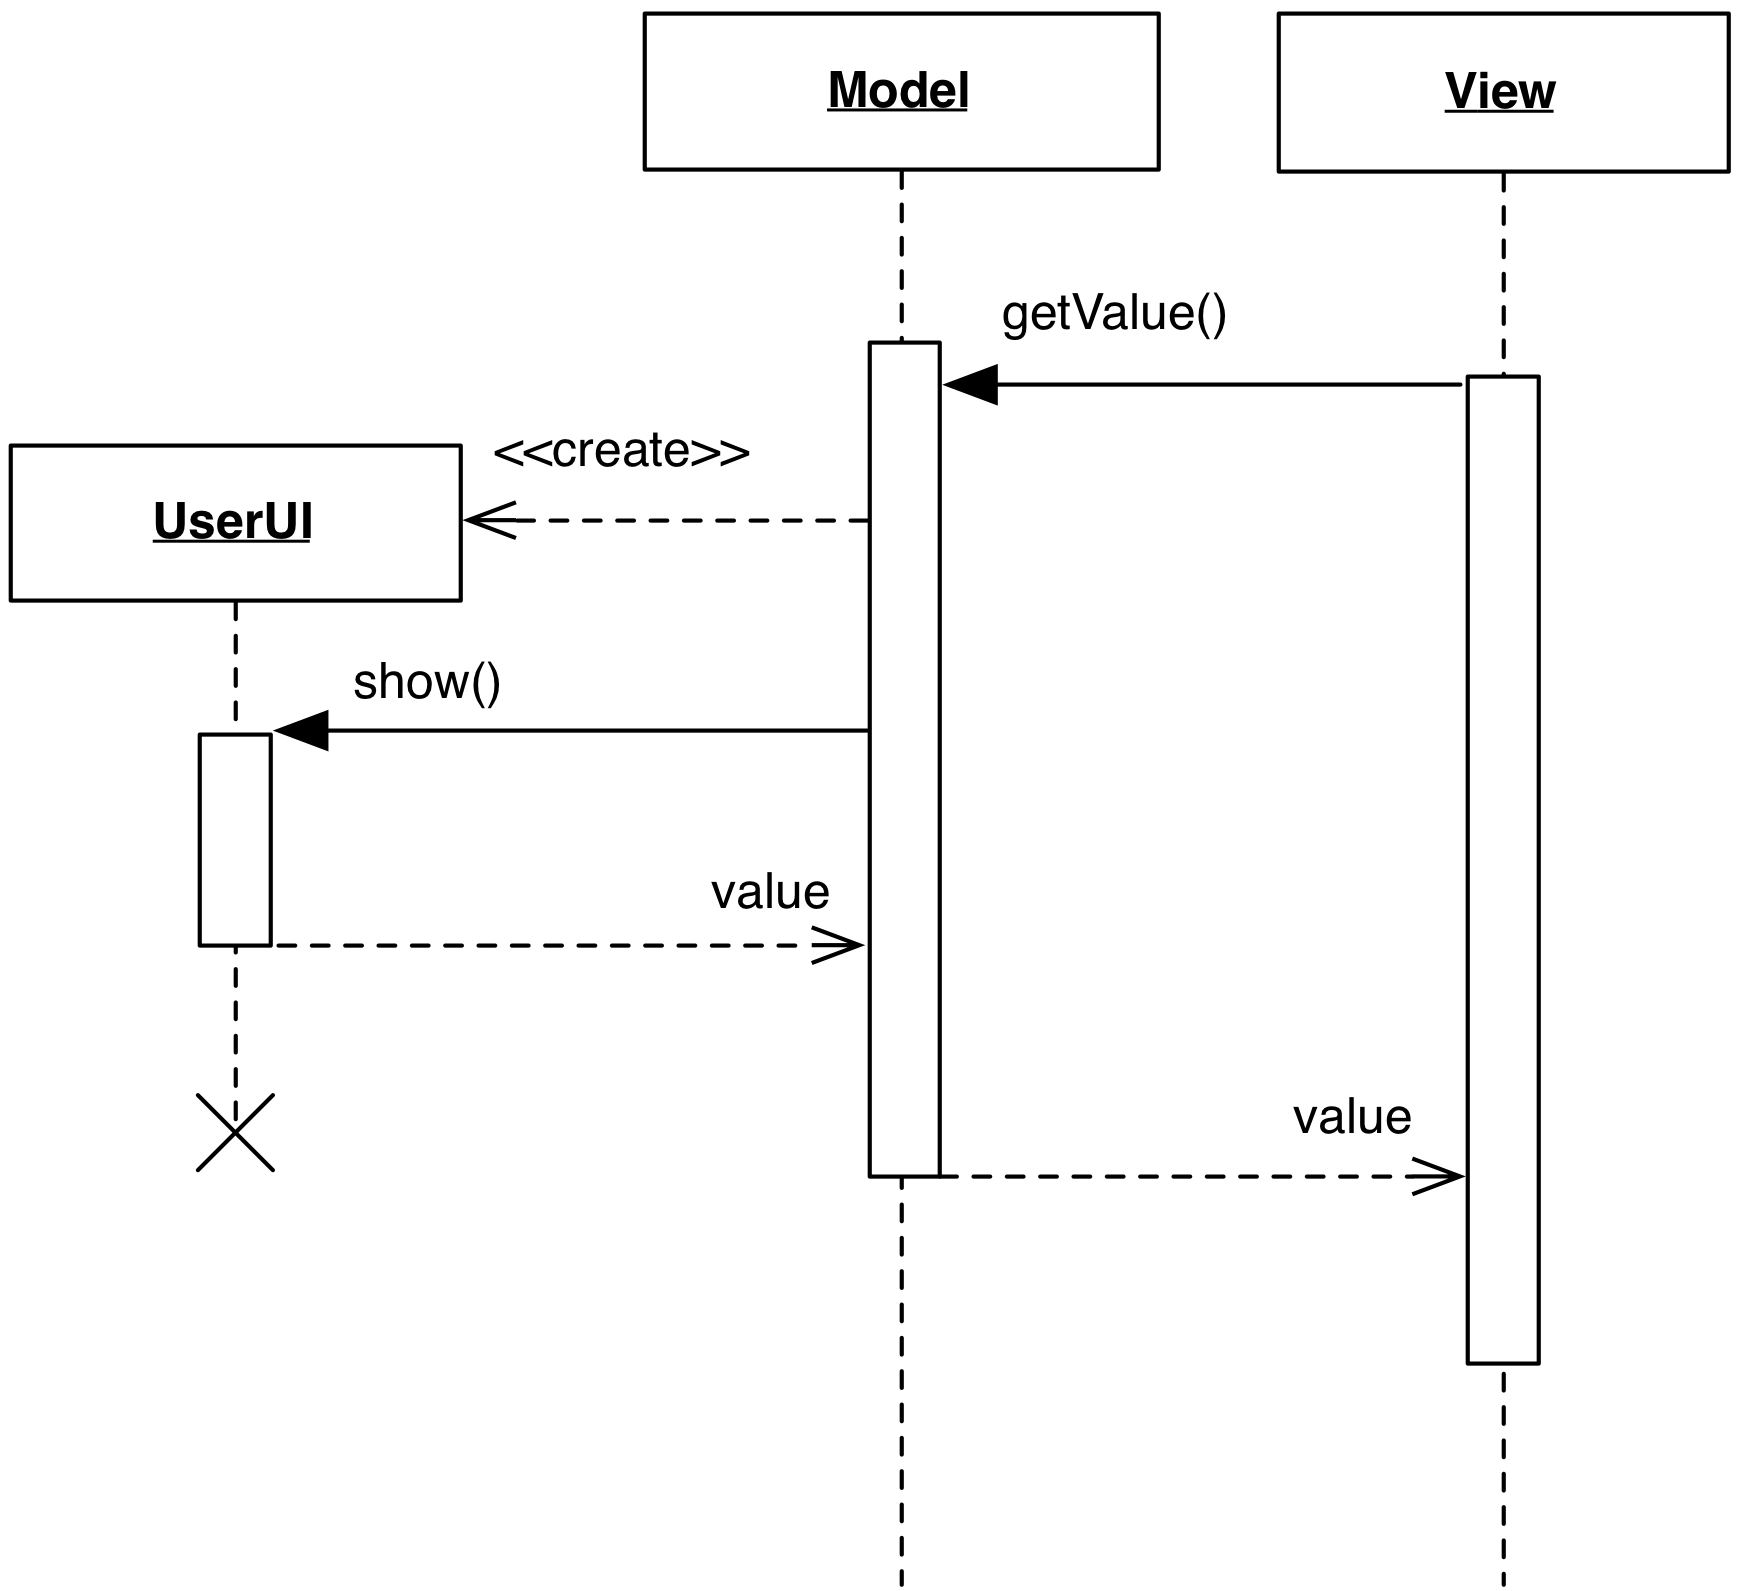
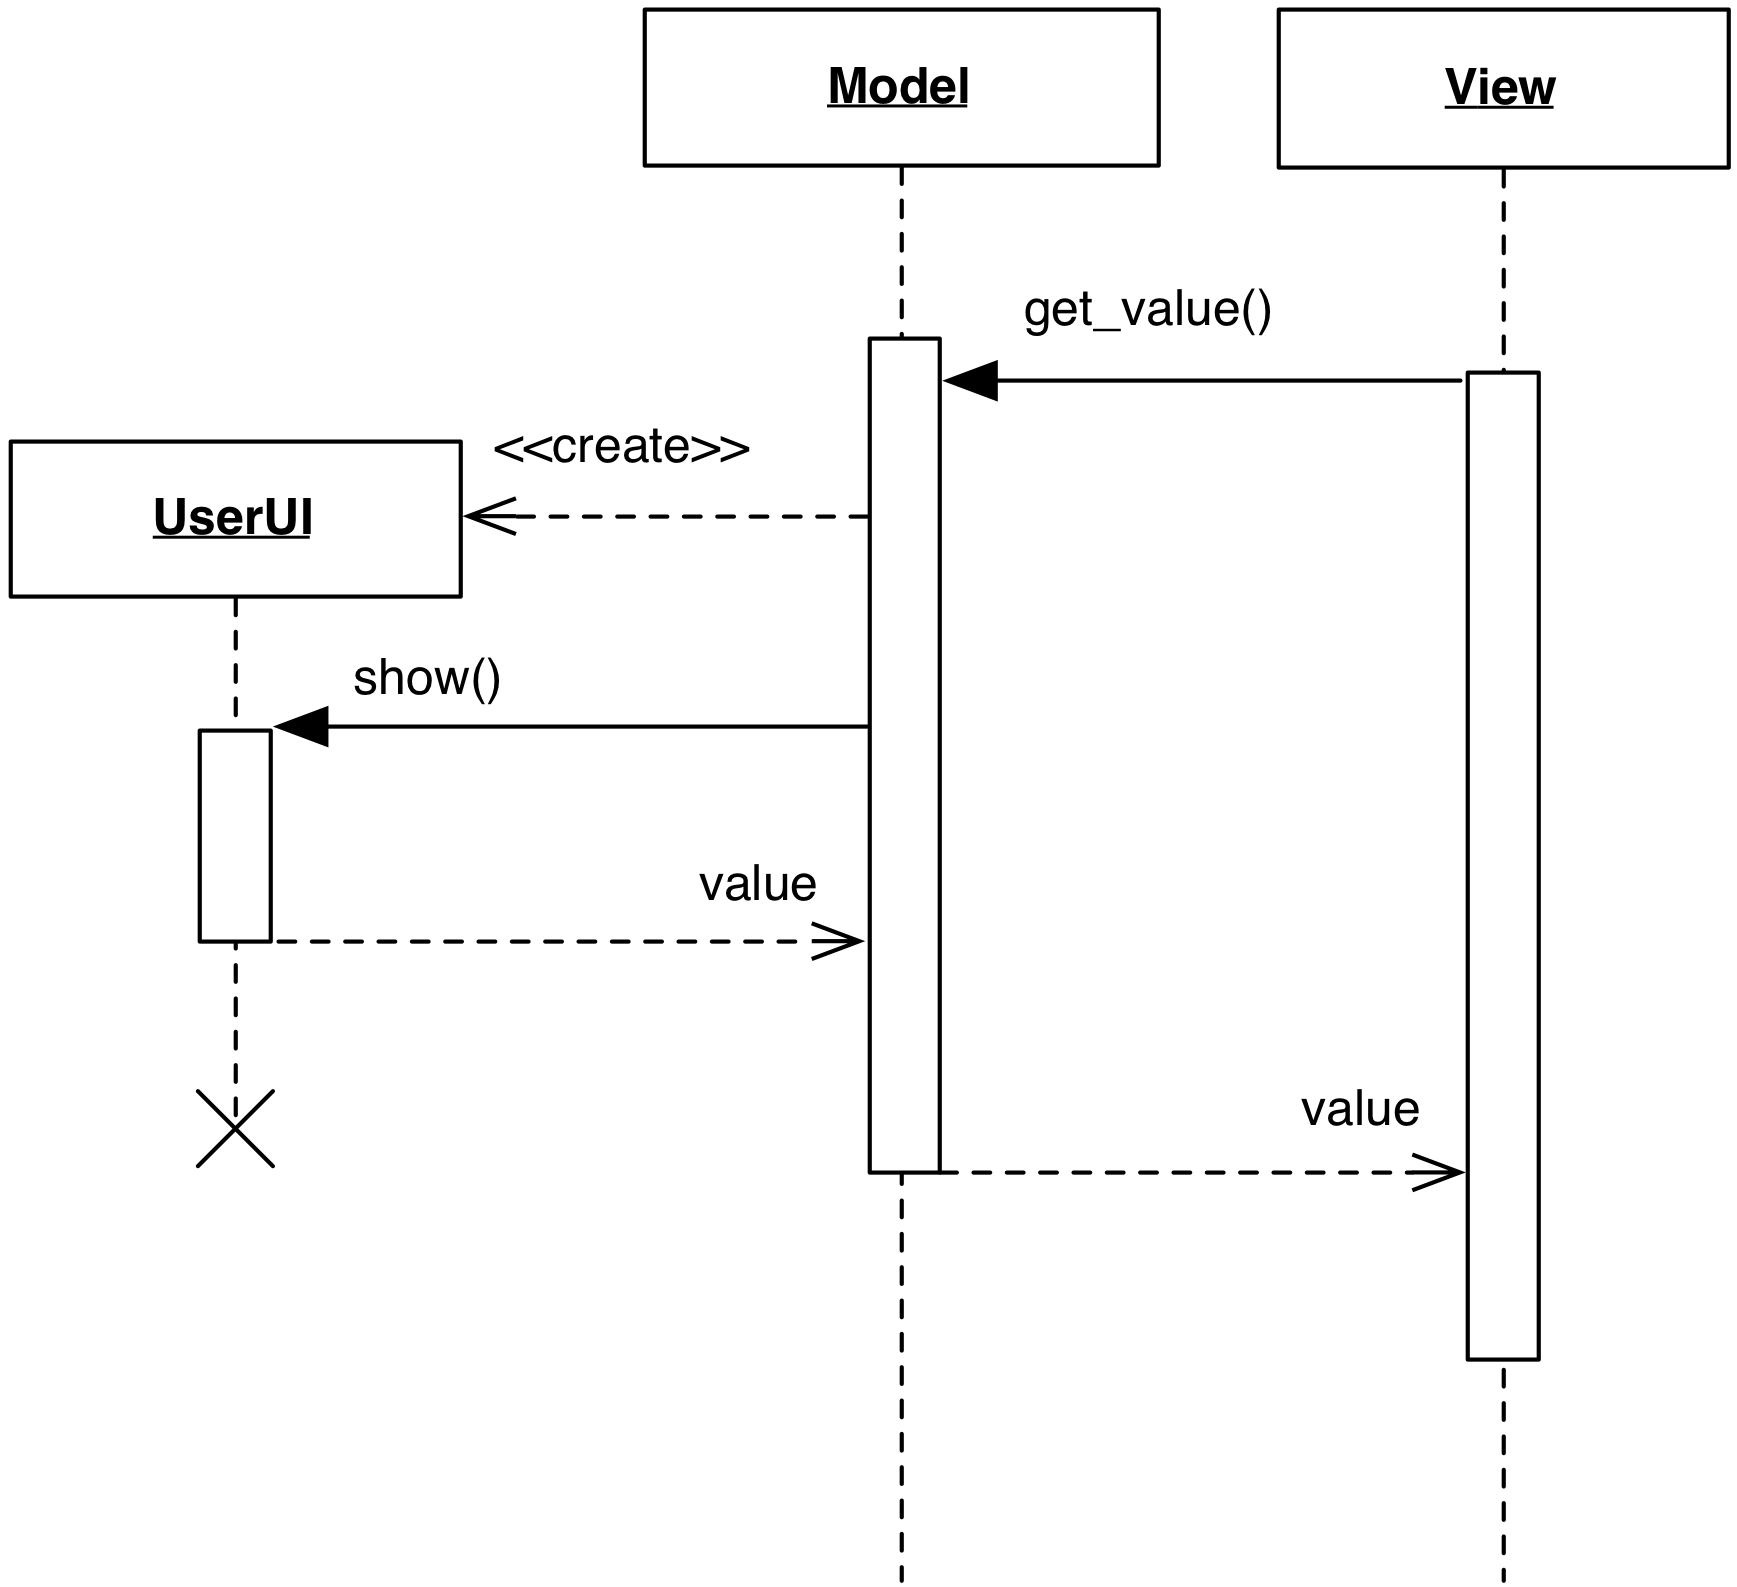
Fixed UI retrieving

diff --git a/02_mvc_variations/variations_on_the_model/ui_retrieving_model.md b/02_mvc_variations/variations_on_the_model/ui_retrieving_model.md
@@ -1,3 +1,4 @@
+<!--- Done -->
 # UI Retrieving Model
 
 ### Motivation
@@ -6,12 +7,12 @@ An important constraint about the Model that we stressed throughout the book
 is that it should never be involved in GUI-related business. **UI Retrieving
 Model** breaks this rule. 
 
-One of the tasks of the Model is to retrieve information from a data
+Among a Model's task is the need to retrieve information from a data
 source, such as a file, memory, or database. In some cases, the Model
 may have to retrieve information that only a direct session with the User 
-can provide. We can break the rules and let the Model pop up a GUI dialog 
-to request this information. The Model is considering the User as a database,
-whose API involves the use of graphical widgets.
+can provide. We can break the rules and let the Model create a UI dialog 
+to inquire the User for this information. In other words, the Model 
+consider the User as a database, whose API involves the use of graphical widgets.
 
 ### Design
 
@@ -23,9 +24,8 @@ The interaction diagram design of a UI retrieving Model is depicted in Figure
 
 The core of the design is the short-lived ``UserUI`` object. In its most 
 basic form this object is a modal dialog, prompted to the User and 
-awaiting for input. The  modality of the dialog keeps the operation 
-synchronous, a requirement imposed by the synchronous nature of the 
-Model object.
+awaiting for input. The modal nature of the dialog guarantees 
+a synchronous handling of the operation.
 
 Once the dialog is closed, the value is gathered and returned 
 to the requesting client. Depending on the nature of the retrieved 
@@ -35,7 +35,7 @@ of prompting the User again.
 ### Practical example
 
 One trivial example of this pattern would be a Model object representing
-the User session, with a password field initially set to null. When the
+the User session, with a password field initially set to ``None``. When the
 program starts the session, it will ask for the credentials to the Model layer.
 Asking the username will return the proper string, but asking the password may
 return None if no password has been set yet. The Model is then authorized
@@ -44,7 +44,7 @@ some non-interactive strategies first, like checking in a configuration file.
 
 ```python
 class Model(object):
-    def getPassword(self):
+    def get_password(self):
         if self._password is None:
             password, ok = QtGui.QInputDialog.getText(
                 None, 
@@ -56,8 +56,12 @@ class Model(object):
                 self._password = password
                 
         return self._password    
+
+    def clear_password(self):
+        self._password = None
 ```
 
 When the user acts on the dialog, the Model stores the password and returns
-it to the Presenter layer, which then proceeds with the authentication logic.
-If the password is incorrect, the Controller will ask the Model to`clearPassword()`, and the user will be prompted again.
+it to the Presenter layer, which then proceeds with the authentication logic if
+the result is a string. If the password is found to be incorrect, the Controller 
+will ask the Model to ``clear_password()``, and the user will be prompted again.

diff --git a/02_mvc_variations/variations_on_the_model/index.md b/02_mvc_variations/variations_on_the_model/index.md
@@ -4,7 +4,7 @@
    * [Model Pipe](02_model_pipe.md): Intercept, modify, and filter data flow between Model and View.
    * [Application Model](03_application_model.md): Holds visual state to complement business logic state.
    * [Side-by-Side application model](04_side_by_side_application_model.md): Holds complementary information to the current model.
-   * [UI Retrieving Model](06_ui_retrieving_model.md): Model retrieving information through visual elements.
+   * [UI Retrieving Model](ui_retrieving_model.md): Model retrieves information from the User through UI elements.
    * [Model Controller](09_model_controller.md)
    * [Local Model](12_local_model.md): Preserve the original Model state so that changes can be reverted.
    * [Value Model](value_model.md): Trivialize complex Model interface to a simple, universal interface.

diff --git a/SUMMARY.md b/SUMMARY.md
@@ -16,7 +16,7 @@
        * [Model Pipe](02_mvc_variations/variations_on_the_model/02_model_pipe.md)
        * [Application Model](02_mvc_variations/variations_on_the_model/03_application_model.md)
        * [Side-by-Side application model](02_mvc_variations/variations_on_the_model/04_side_by_side_application_model.md)
-       * [UI Retrieving Model](02_mvc_variations/variations_on_the_model/06_ui_retrieving_model.md)
+       * [UI Retrieving Model](02_mvc_variations/variations_on_the_model/ui_retrieving_model.md)
        * [Model Controller](02_mvc_variations/variations_on_the_model/09_model_controller.md)
        * [Local Model](02_mvc_variations/variations_on_the_model/12_local_model.md)
        * [Value Model](02_mvc_variations/variations_on_the_model/value_model.md)
